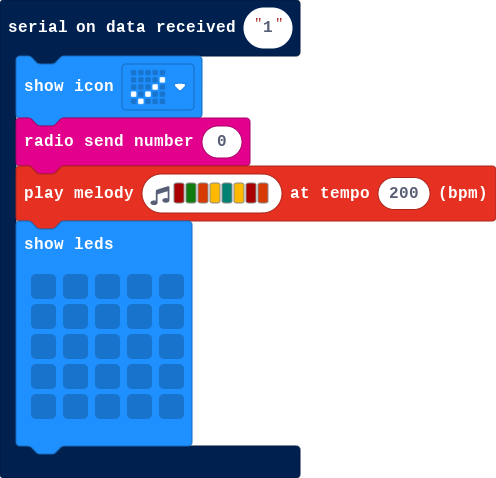
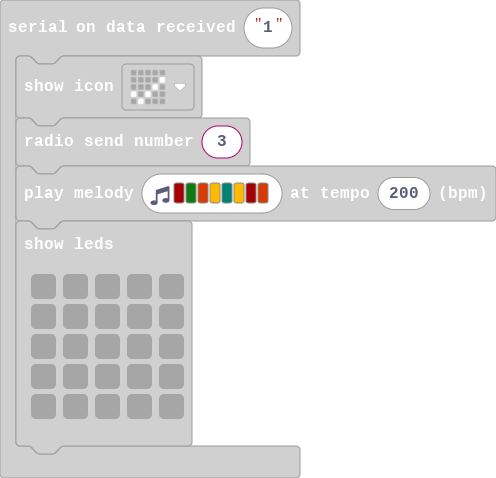
Update main.blocks, main.ts

diff --git a/main.ts b/main.ts
@@ -19,7 +19,7 @@ radio.onReceivedNumber(function (receivedNumber) {
 })
 serial.onDataReceived("1", function () {
     basic.showIcon(IconNames.Yes)
-    radio.sendNumber(0)
+    radio.sendNumber(3)
     music.playMelody("C5 G B A F A C5 B ", 200)
     basic.showLeds(`
         . . . . .
